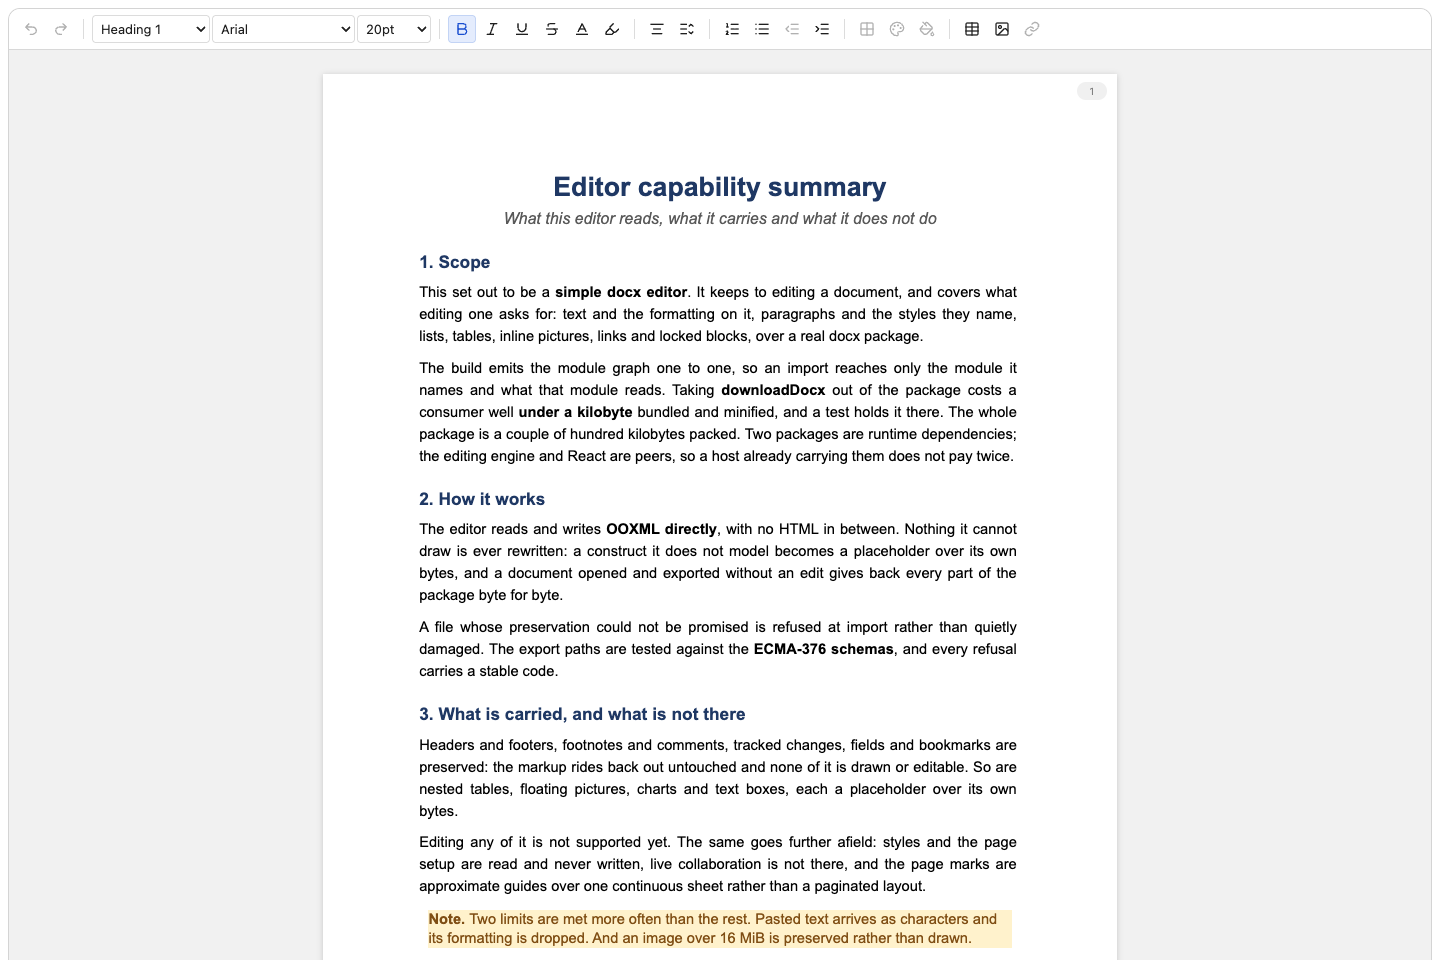
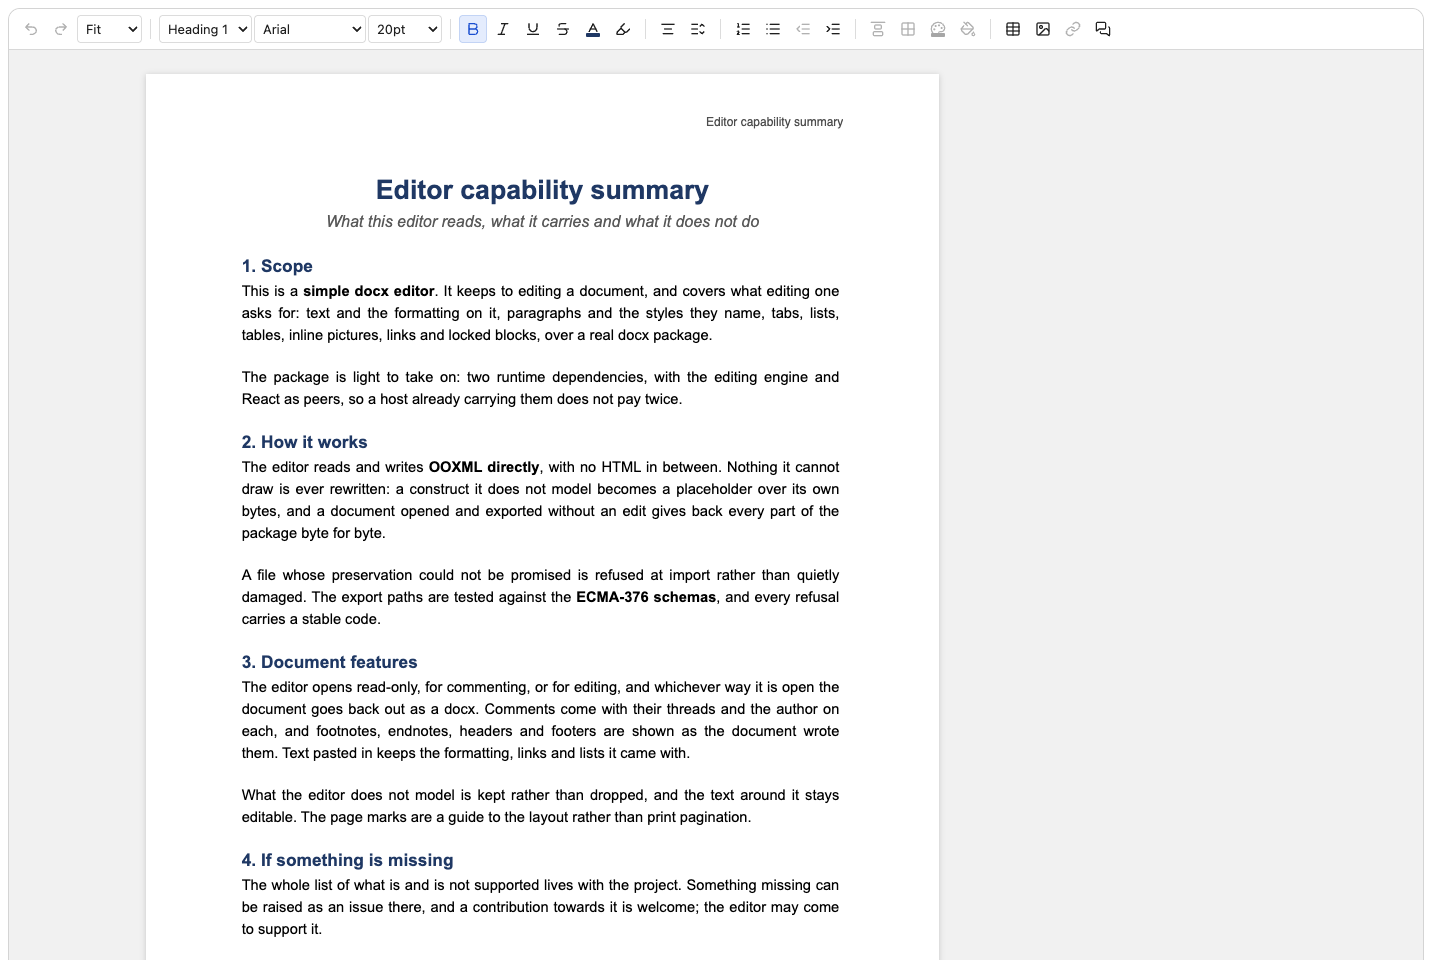
docs: bring the demo document up to date, and draw one line under a link (#117)

diff --git a/e2e/notesAndPages.spec.ts b/e2e/notesAndPages.spec.ts
@@ -31,14 +31,14 @@ test("the demo aligns its notes with the paper and starts at page one", async ({
     page.locator(`.${editorClassNames.pageFooter}`).first()
   ).toHaveText("Page 1");
 
-  const section14 = await page
-    .getByText("14. Cell alignment and padding", { exact: true })
+  const section13 = await page
+    .getByText("13. Cell alignment and padding", { exact: true })
     .boundingBox();
   const imageLocator = page.locator(`.${editorClassNames.imageBox}`);
   const image = await imageLocator.boundingBox();
-  if (!section14 || !image)
+  if (!section13 || !image)
     throw new Error("the closing demo blocks were not drawn");
-  expect(image.y).toBeGreaterThan(section14.y);
+  expect(image.y).toBeGreaterThan(section13.y);
 
   const imageSpacing = await imageLocator.evaluate((element) => {
     const paragraph = element.closest("p");
@@ -54,12 +54,25 @@ test("the demo aligns its notes with the paper and starts at page one", async ({
   });
   expect(imageSpacing).toEqual({ before: ["", ""], after: ["", ""] });
 
-  const section13 = page.getByText("13. Comments, bookmarks and notes", {
+  const section14 = page.getByText("14. Comments, bookmarks and notes", {
     exact: true,
   });
   await expect(
-    section13.locator(
+    section14.locator(
       `xpath=ancestor::p//*[@${editorAttributes.breakType}="page"]`
     )
   ).toHaveCount(0);
+});
+
+test("a link the document underlines itself is drawn with one line", async ({
+  page,
+}) => {
+  await openHarness(page, "demo");
+
+  const link = page.locator(`.${editorClassNames.link}`).first();
+  await expect(link.locator(`.${editorClassNames.run}`)).toHaveCSS(
+    "text-decoration-line",
+    "underline"
+  );
+  await expect(link).toHaveCSS("border-bottom-style", "none");
 });

diff --git a/src/schema/index.test.ts b/src/schema/index.test.ts
@@ -530,6 +530,32 @@ describe("parseDOM", () => {
     );
   });
 
+  it("marks an underlined run so a link over it draws no second line", () => {
+    const link = docxSchema.marks.link.create({
+      linkPrefix: '<w:hyperlink r:id="rId9">',
+      href: "https://example.com/terms",
+    });
+    const styled = docxSchema.nodes.doc.create(null, [
+      paragraph({}, [
+        docxSchema.text("our terms", [
+          link,
+          docxSchema.marks.run.create({ format: { underline: "single" } }),
+        ]),
+        run("plainly", { format: { underline: "none" } }),
+      ]),
+    ]);
+    const host = render(...styled.children);
+
+    expect(
+      Array.from(host.querySelectorAll(`.${editorClassNames.run}`)).map(
+        (span) => span.hasAttribute("data-underline")
+      )
+    ).toEqual([true, false]);
+    expect(parser.parse(host, { preserveWhitespace: true }).eq(styled)).toBe(
+      true
+    );
+  });
+
   /** Two links written exactly alike are told apart by their number alone, as two controls are */
   it("two neighbouring hyperlinks stay apart through the DOM", () => {
     const linkAt = (linkKey: number) =>

diff --git a/src/styles/editor.css b/src/styles/editor.css
@@ -928,10 +928,19 @@ button.docx-editor-comment-body {
  * held as data rather than as an `href`, so a click here places the caret the way a click on any
  * other text does, and opening the address is the link panel's business.
  * A color the run itself carries paints over this one, the same as any other run formatting.
+ * The line is a border rather than an underline so that it runs on across a tab, which a text
+ * decoration is not painted over.
  */
 .docx-editor-link {
   color: #1a56db;
   border-bottom: 1px solid currentcolor;
+}
+
+/* A word processor underlines a link through the `Hyperlink` style, so the line above would be a second one */
+.docx-editor-link:has([data-underline]):not(
+  :has(.docx-editor-run:not([data-underline]))
+) {
+  border-bottom: none;
 }
 
 /*

diff --git a/e2e/comments.spec.ts b/e2e/comments.spec.ts
@@ -213,8 +213,11 @@ test("the composer leaves the page where the reader left it", async ({
   if (!target) throw new Error("the fixture holds no paragraph long enough");
 
   await selectText(page, target.index, 2, 6);
-  await editor.evaluate((element) => {
-    element.scrollTop = element.scrollHeight;
+  // Scrolling to the end would leave a selection on the closing page off screen from the start
+  await page.evaluate(() => {
+    const anchor = window.getSelection()?.anchorNode;
+    const element = anchor instanceof Element ? anchor : anchor?.parentElement;
+    element?.scrollIntoView({ block: "center" });
   });
   await settle(page);
   const before = await editor.evaluate((element) => element.scrollTop);

diff --git a/src/schema/rendering.ts b/src/schema/rendering.ts
@@ -29,6 +29,9 @@ export function runMarkSpec(
       "data-rattrs": text(attrs.rAttrs),
       "data-rpr": text(attrs.rPr),
       "data-fmt": formatJson(format),
+      // Read by `styles/editor.css` to stand a link's own line down
+      "data-underline":
+        format?.underline && format.underline !== "none" ? "" : undefined,
     },
     0,
   ];

diff --git a/site/README.md b/site/README.md
@@ -28,7 +28,7 @@ The library it imports is deliberately not listed: the site installs it from npm
 | --- | --- | --- |
 | `pnpm dev` / `pnpm build:demo` | Development demo | Current `src/` |
 | `pnpm dev:site` | Current working tree, with hot reload | npm `latest`, resolved at startup |
-| `pnpm build:site` / Vercel preview of `main` | Checked-out site and docs | Exact committed release pin |
+| `pnpm build:site` / Vercel preview of `main` | Checked-out site and docs | Exact committed release pin, which a pull request moves to each release |
 | Vercel production, from the `production` branch | Site and docs as of the latest release | That release |
 
 The site and demo pin the same published library version, including its CSS and version badge. Local site startup needs network access and may update `site/package.json`, `demo/package.json`, and `pnpm-lock.yaml` when a newer release exists. The running server keeps that version until restarted.
@@ -36,6 +36,11 @@ The site and demo pin the same published library version, including its CSS and 
 ### Automatic updates after publishing
 
 After npm publishing succeeds, [Update site release](../.github/workflows/site-release.yml) checks out the release commit, installs that exact version, builds the site, and writes the result to the `production` branch as the release commit plus one commit updating the two manifests and lockfile. Vercel's production deployment must track `production`; `main` deploys as a preview. The live site therefore changes only at a release, and a docs-only fix reaches it with the next one. Failed updates leave the previous release in place.
+
+The workflow then opens a pull request from `production` to `main`, because nothing else moves the pins there and `main` would otherwise keep building an older library.
+`production` is the release commit plus that pin commit, so it is already the head of the pull request, and one left open follows the next release too.
+The workflow opens nothing when `main` already pins the released version.
+A workflow token opens it, so its checks wait for approval exactly as the release pull request's do: **Approve workflows to run**, in the merge box, starts them.
 
 If the update fails, run **Update site release** on `main` in GitHub Actions with the already published version. It rebuilds `production` from scratch, so rerunning is always safe. If `production` is right but its deployment failed, retry in Vercel. Neither requires republishing npm.
 

diff --git a/docs/releasing.md b/docs/releasing.md
@@ -15,7 +15,10 @@ Its Actions runs wait for approval, since the workflow opened the pull request r
 
 ## The version the site's demo runs
 
-Changesets preserves the published demo pins during release preparation through `bumpVersionsWithWorkspaceProtocolOnly`. After publishing succeeds, a separate workflow rebuilds the `production` branch, which Vercel serves, from the release commit and the published version. See [automatic site updates and recovery](../site/README.md#automatic-updates-after-publishing).
+Changesets preserves the published demo pins during release preparation through `bumpVersionsWithWorkspaceProtocolOnly`. After publishing succeeds, a separate workflow rebuilds the `production` branch, which Vercel serves, from the release commit and the published version.
+It then opens a pull request from `production` to `main`, unless `main` already pins that version, so the `main` preview and local site builds follow the release once it is merged.
+A workflow token opens it too, so its runs wait for the same **Approve workflows to run** as the release pull request's.
+See [automatic site updates and recovery](../site/README.md#automatic-updates-after-publishing).
 
 ## What the workflow decides
 

diff --git a/__fixtures__/README.md b/__fixtures__/README.md
@@ -158,6 +158,10 @@ This fixture is a readable capability overview for the live editor. The shared r
 
 Keep its claims consistent with the document itself. Detailed support claims belong in [Feature support](../site/content/docs/features.mdx), not in the fixture.
 
+Set it the way a reader of it could set it, since it is what the editor is shown doing.
+The gap between two blocks is an empty paragraph rather than `w:spacing` above or below one: the editor reads that spacing and writes it back, but nothing in it sets the value, so a gap made that way is one the demo's own user could neither place nor take out.
+Line spacing, which the toolbar does set, stays where the document uses it.
+
 ### `size-fallback.docx`
 
 This fixture must retain:

diff --git a/.changeset/single-link-underline.md b/.changeset/single-link-underline.md
@@ -1,0 +1,5 @@
+---
+"@portone/docx-editor": patch
+---
+
+A hyperlink whose text is already underlined, which is how a word processor writes one, is drawn with one line under it rather than two. The editor's own link line is still drawn under a link the document leaves unstyled.
